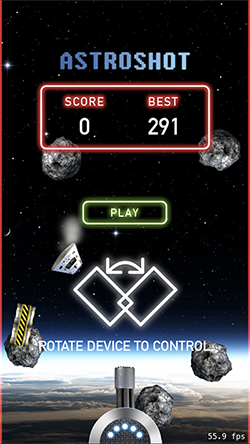
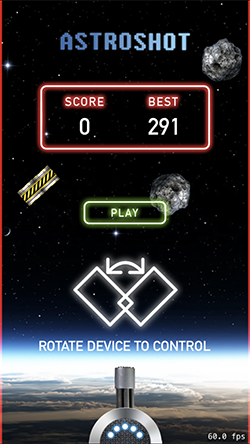
- Bug fix, - Minor design changes, - Refactoring

diff --git a/Astroshot/Scenes/MainScene.m b/Astroshot/Scenes/MainScene.m
@@ -6,15 +6,15 @@
 //  Copyright © 2019 Nikolay Gutorov. All rights reserved.
 //
 
-#import "MyScene.h"
-#import "Menu.h"
+#import "MainScene.h"
+#import "MainMenu.h"
 #import "MotionManager.h"
 
-@implementation MyScene {
+@implementation MainScene {
     
     NSUserDefaults *_userDefaults;
     SKNode *_mainLayer;
-    Menu *_menu;
+    MainMenu *_menu;
     MotionManager *_motionManager;
     
     NSMutableArray *_shieldPool;
@@ -198,7 +198,7 @@ static inline CGFloat randomInRange(CGFloat low, CGFloat high) {
         _shieldUpSound = [SKAction playSoundFileNamed:@"ShieldUp.caf" waitForCompletion:NO];
         
         // Setup menu.
-        _menu = [[Menu alloc] init];
+        _menu = [[MainMenu alloc] init];
         _menu.position = CGPointMake(self.size.width * 0.5, self.size.height - 100);
         [self addChild:_menu];
         

diff --git a/Astroshot/AppDelegate.m b/Astroshot/AppDelegate.m
@@ -7,7 +7,7 @@
 //
 
 #import "AppDelegate.h"
-#import "MyScene.h"
+#import "MainScene.h"
 
 @interface AppDelegate ()
 
@@ -15,7 +15,7 @@
 
 @implementation AppDelegate
 
-MyScene *startScene;
+MainScene *startScene;
 
 - (BOOL)application:(UIApplication *)application didFinishLaunchingWithOptions:(NSDictionary *)launchOptions {
     
@@ -29,7 +29,7 @@ MyScene *startScene;
     SKView *startView = [[SKView alloc] initWithFrame:screenFrame];
     startView.showsFPS = YES;
     
-    startScene = [[MyScene alloc] initWithSize:screenFrame.size];
+    startScene = [[MainScene alloc] initWithSize:screenFrame.size];
     startScene.scaleMode = SKSceneScaleModeAspectFit;
     startScene.backgroundColor = [UIColor blackColor];
     

diff --git a/Astroshot/Menus/MainMenu.m b/Astroshot/Menus/MainMenu.m
@@ -6,9 +6,9 @@
 //  Copyright © 2019 Nikolay Gutorov. All rights reserved.
 //
 
-#import "Menu.h"
+#import "MainMenu.h"
 
-@implementation Menu {
+@implementation MainMenu {
     
     SKLabelNode *_scoreLabel;
     SKLabelNode *_topScoreLabel;
@@ -25,7 +25,7 @@
     
     if (self) {
         _title = [SKSpriteNode spriteNodeWithImageNamed:@"Title"];
-        _title.position = CGPointMake(0, 23);
+        _title.position = CGPointMake(0, 48);
         [self addChild:_title];
         
         _scoreBoard = [SKSpriteNode spriteNodeWithImageNamed:@"ScoreBoard"];

diff --git a/Astroshot/Scenes/MainScene.h b/Astroshot/Scenes/MainScene.h
@@ -10,7 +10,7 @@
 
 #import <SpriteKit/SpriteKit.h>
 
-@interface MyScene : SKScene <SKPhysicsContactDelegate>
+@interface MainScene : SKScene <SKPhysicsContactDelegate>
 
 @property (nonatomic) int ammo;
 @property (nonatomic) int score;

diff --git a/Astroshot/Menus/MainMenu.h b/Astroshot/Menus/MainMenu.h
@@ -8,7 +8,7 @@
 
 #import <SpriteKit/SpriteKit.h>
 
-@interface Menu : SKNode
+@interface MainMenu : SKNode
 
 @property (nonatomic) int score;
 @property (nonatomic) int topScore;

diff --git a/README.md b/README.md
@@ -2,11 +2,12 @@
 
 **Earth's last hope is in your hands, take control of the space cannon and protect Earth from asteroids.**
 
-Your goal will be quite challenging as you will have to save space capsules and be carefully with nukes!
+Your goal will be quite challenging as you will have to save space capsules and be carefully with nukes.
 
-## Have fun and enjoy the game :smile:
+## Have fun and enjoy the game! :smile:
 
 ![ScreenShot_01](https://github.com/ngutorov/Astroshot/blob/master/Demo/ScreenShot01.PNG)
 ![ScreenShot_02](https://github.com/ngutorov/Astroshot/blob/master/Demo/ScreenShot02.PNG)
 ![ScreenShot_03](https://github.com/ngutorov/Astroshot/blob/master/Demo/ScreenShot03.PNG)
+![ScreenShot_03](https://github.com/ngutorov/Astroshot/blob/master/Demo/ScreenShot04.PNG)
 
